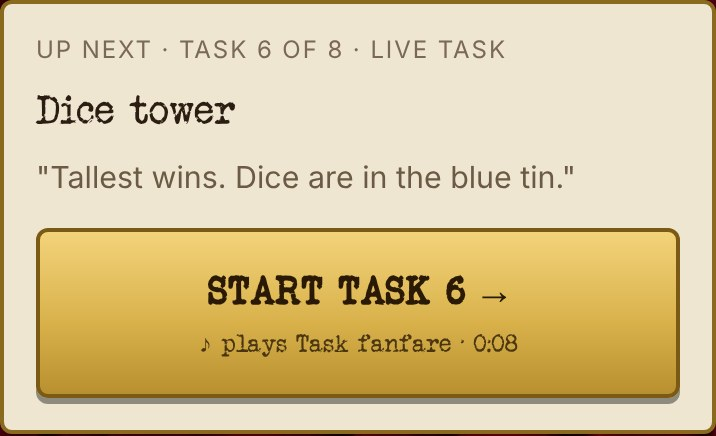
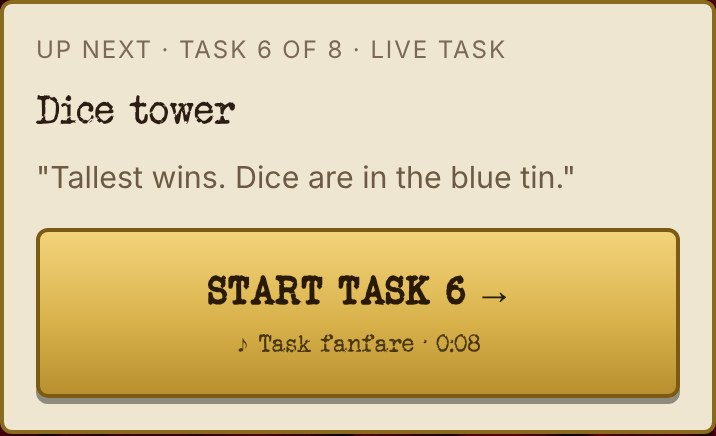
Up next: the sting line is just ♪ and the title; style guide and sheet
Adds the button's second line (.button-sub) to the style guide and the
style sheet, and the screenshot's row to docs/screens.

Claude-Session: https://claude.ai/code/session_01CjjuoncHbko52b6sepLhw6

Changed region(s): [[0.2765, 0.7454, 0.7374, 0.8349]]

diff --git a/docs/style-sheet/sheet.tsx b/docs/style-sheet/sheet.tsx
@@ -99,6 +99,7 @@ function Sheet() {
             </Item>
             <Item cap={<><code>.big</code>: the one main action. One per screen</>}><button className="big">Update the scores</button></Item>
             <Item cap={<><code>.big.pressed</code>: a gold button whose thing is on the big screen now; tap again to take it down</>}><button className="big pressed" aria-pressed>Show the task</button></Item>
+            <Item cap={<><code>.button-sub</code>: a second line saying what else the tap does, only when there's something to say</>}><button className="big">Start task 6 →<span className="button-sub">♪ Task fanfare · 0:08</span></button></Item>
             <div className="pair">
               <Item cap={<><code>.steps.two</code>: what the stage shows</>}><div className="steps two"><button className="active">Before</button><button>After</button></div></Item>
               <Item cap="Disabled: 0.45, kept in place"><button disabled>Lower the curtain</button></Item>

diff --git a/src/scoreboard/RunOfShow.tsx b/src/scoreboard/RunOfShow.tsx
@@ -133,7 +133,7 @@ function UpNext({ code, session, quiet, onOpen }: { code: string; session: Sessi
       {task.description && <p className="up-next-note">"{task.description}"</p>}
       <button className={quiet ? undefined : "big"} onClick={go}>
         {label}
-        {task.transition && !open && <span className="button-sub">♪ plays {task.transition}{stingLength ? ` · ${fmt(stingLength)}` : ""}</span>}
+        {task.transition && !open && <span className="button-sub">♪ {task.transition}{stingLength ? ` · ${fmt(stingLength)}` : ""}</span>}
       </button>
     </section>
   );

diff --git a/docs/style-guide.md b/docs/style-guide.md
@@ -67,6 +67,7 @@ Contrast note: `--muted` is for the dark backdrop only. On paper, use `#7a6a55` 
 ### Buttons
 - **Default** is paper: typewriter font, 2px `--gold-dark` border, 6px radius, a `0 3px 0` hard shadow that "presses in" on `:active` (`translateY(2px)`). Already styled on the bare `button` element, so a plain `<button>` needs no class.
 - **Primary** (`.big`): the one main action on a screen (Start a session, Join, Submit). Full-width gold gradient, uppercase, bold. **One per screen.** A gold button that puts something on the big screen ("Show the task") stays pressed in while it's up (`button.big.pressed`), and tapping it again takes it down.
+- **A second line** (`.button-sub`, a `<span>` inside the button): what else the tap does, in small sentence case under the label, normal weight. Only when there is something to say: Up next's Start reads "♪ Task fanfare · 0:08" under it when the task opens with a sting, and nothing otherwise. The ♪ is enough; no verb.
 - **Selected / active** (`button.active`): the same gold as the primary button, for what's currently on screen or playing (stage steps, the current track, the backup stage controls). One shared rule, `button.big, button.active`, supplies the gold; adding `active` to any button is all it takes.
 - **Choices** (`.choices`): picking one of several *settings* (the game, the light's mode and its secret, the Box round's players). A compact, wrapping row of paper chips, three to a row (`.choices.two` for long labels), the chosen one `.active` with `aria-pressed`. Smaller than `.steps`, which are for what the stage shows right now.
 - **Marks** (`.choices.marks`): marking several things true at once, like Secret Tasks' scoring ("Did Sam do it?", "Who guessed it?"). The same paper chips, but a marked one stays pressed in, with a ✓ and `aria-pressed`, and never turns gold, so gold stays on the screen's one next action.
@@ -207,7 +208,7 @@ See: [guest-home-waiting.jpg](screens/guest-home-waiting.jpg), [guest-home-prize
 - **Home is the run of show** (`RunOfShow.tsx`). Every party opens on it, and it's for running the night, not building it. Top to bottom:
   1. `Run of show` heading, then the party line ("Halloween party · ABCD", small and muted) with a small paper **"Show QR"** chip at its right, then one `.on-screen` line saying what the big screen shows ("On the big screen: the curtain", "…: the scores, before Photos: best costume", "…: not connected yet"), with a small paper **"Show scores"** chip under it, left-aligned, while the scores, the haul and the winner aren't up. Then at most one `.muted.small` line. Both are **line chips** (`.line-chip-button`): side actions that change the big screen, so they sit by the line they're about, small, never gold and never full width. "Show scores" goes under its line, not beside it, because that line runs long. They're not in the header: its icons open a page, and these act the moment they're tapped. See: [run-of-show-host.jpg](screens/run-of-show-host.jpg).
   2. **The top slot: the one next thing in gold.** While the scores are up it's the scoreboard's next step: "Update the scores" (the status line names what it adds, so the button stays one line), then "Lower the curtain"; "🎁 Show the prize haul · Priya"; "Play the tiebreaker task · Sam and Priya". The quiet way out sits under it as a `.link`.
-  3. **The "Up next" card** (`.up-next`): a paper card with "Up next · task 4 of 8 · live task" in small capitals, the task's name, the first lines of its note in quotes, and the night's gold button: "Start task 4 →", "▶ Start Photos: best costume" for an app task, or "Open task 4 →" for a task half-scored, already on, or the light. While the top slot has the gold, the card's button is paper; starting it then brings the scores down too.
+  3. **The "Up next" card** (`.up-next`): a paper card with "Up next · task 4 of 8 · live task" in small capitals, the task's name, the first lines of its note in quotes, and the night's gold button: "Start task 4 →", "▶ Start Photos: best costume" for an app task, or "Open task 4 →" for a task half-scored, already on, or the light. A task with a transition sting has it as the Start button's second line, "♪ Task fanfare · 0:08": the tap plays it on the big screen at once ([up-next-transition.jpg](screens/up-next-transition.jpg)); "Open task 4 →" never plays it, so it never shows it. While the top slot has the gold, the card's button is paper; starting it then brings the scores down too.
   4. **All tasks** (`.run-list`): read-only rows, a number, the name and one short state on the right ("scored", "next", "playing", "3 of 8 got it", "1 of 8 prizes in"). Scored rows are quiet, the next one is `--gold-bright`. Tapping a row opens that task's page, for running one out of order. No ≡, ✎ or ▶ here.
   5. A quiet "End the night now: declare the winner" under the list (the night can end before every task is played: one last update, then the haul).
   6. Quiet links at the bottom (`.run-links`): "Play a task that's not on the list" (or "Back to [BLANK] in a Box" while one is on), "Plan the party", "Party settings" (the download button, "Reset scores…" and Disconnect). "Reset scores…" opens in place in an `.extra-open` panel: a **Clears** sentence and a muted **Keeps** sentence, counted for the party, an "Also remove guests" switch (off to start), then a paper button named for what it does and a `confirm()`. Never gold: a reset is never the night's next step. After it, the big screen goes back to the curtain. See: [host-reset-scores.jpg](screens/host-reset-scores.jpg).

diff --git a/docs/screens/README.md b/docs/screens/README.md
@@ -158,6 +158,7 @@ Scoreboard (taken on 2026-10-12, from the real components with made-up sessions;
 | `headshot-task-main-everyone.jpg` | Main screen: everyone's headshots |
 | `host-party-settings-name.jpg` | Plan the party with the party line opened by "Change": renaming the party, with the portrait and the host pin under it (2026-10-18) |
 | `run-of-show-host.jpg` | The remote's home: the party line "Halloween party · ABCD" with a small "Show QR" chip at its right, "On the big screen: the soundboard" with a small "Show scores" chip under it, the "Up next" card with gold "▶ Start Headshot", the read-only task list with one state each, and "Play a task that's not on the list", "Plan the party", "Party settings" at the bottom (party ABCD, 2026-10-19) |
+| `up-next-transition.jpg` | The Up next card for Dice tower, a live task that opens with a sting: gold "Start task 6 →" with "♪ Task fanfare · 0:08" as its second line (party ABCD, tasks 1 to 5 scored, 2026-10-22) |
 | `run-of-show-host-scrolled.jpg` | Run of show scrolled down to the task list (party ABCD, Halloween party): the four header icons stay at the top on their dark band, with the page sliding under them. Older host screenshots show the header without its band (2026-10-19) |
 | `run-of-show-host-scores-up.jpg` | The scores up: the scoreboard's controls take the top slot, gold "Update the scores" with "On the big screen: the scores, before Hum a theme tune", "Lower the curtain" as a link, and the "Up next" card's button paper (2026-10-18) |
 | `run-of-show-host-scores-updated.jpg` | After the update: gold "Lower the curtain" alone in the top slot, the pending note gone (2026-10-18) |
